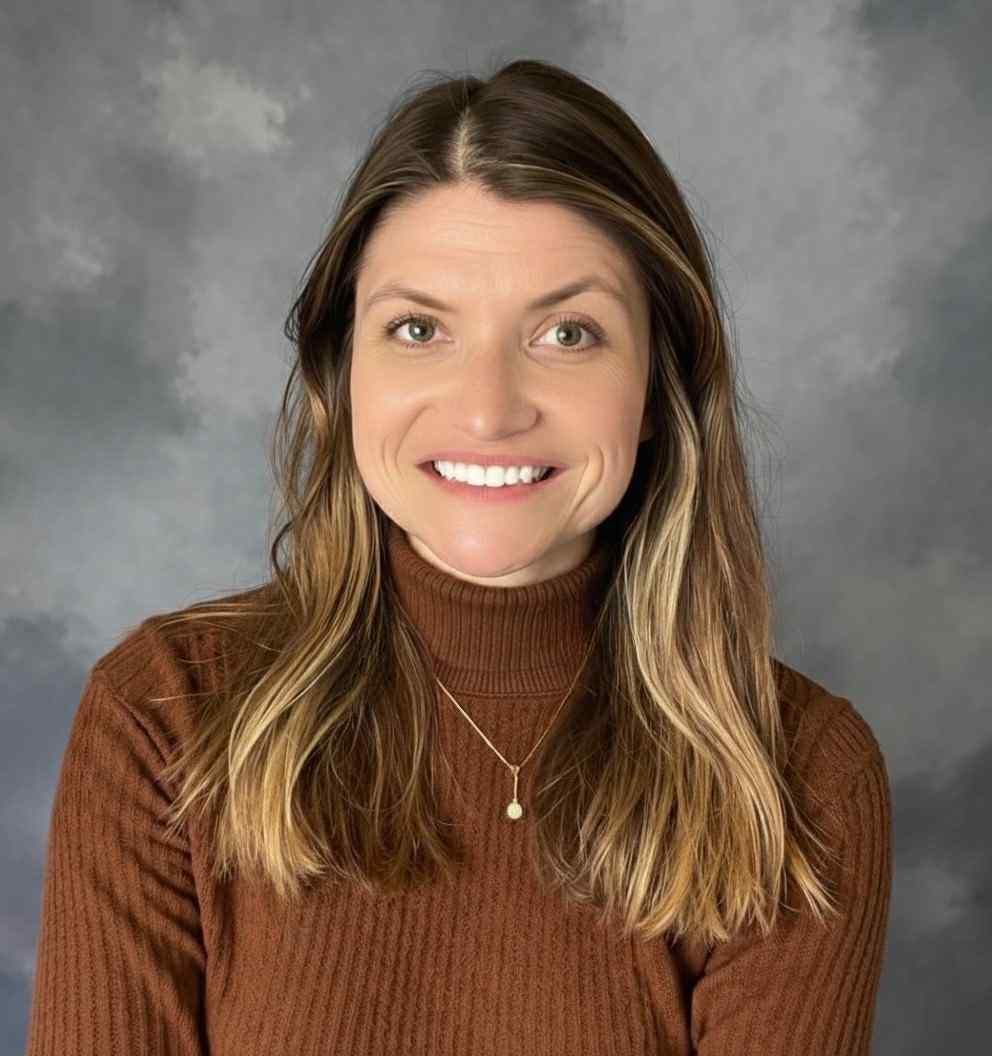
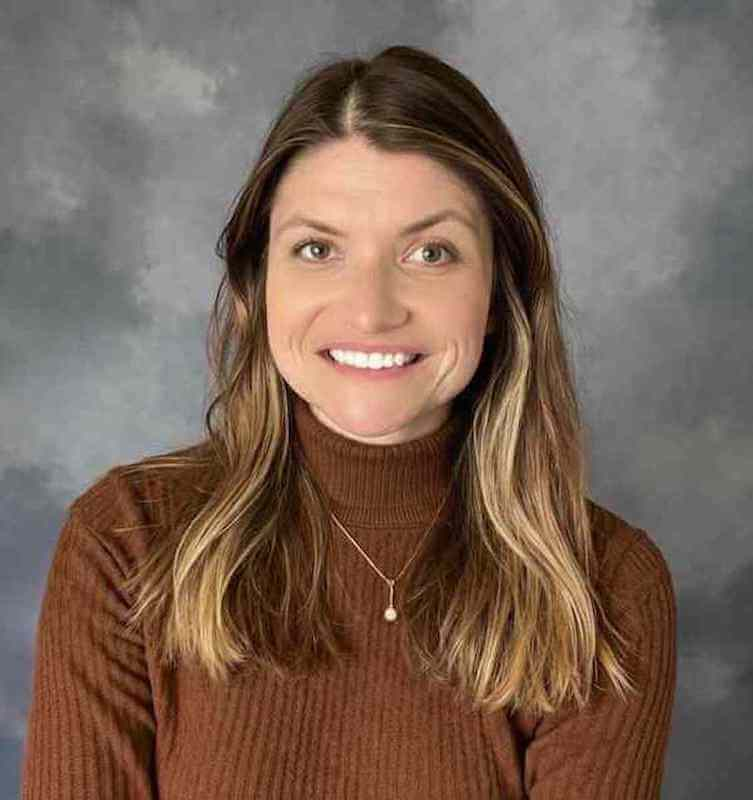
Resized profile picture

diff --git a/index.html b/index.html
@@ -91,7 +91,7 @@
 
                 <div class="home-portfolio-piece">
                     <figure>
-                    <a href="https://aistem1.github.io/guess-the-word/" target="_blank"><img src="img/guess-the-word-1.png"
+                    <a href="https://aistem1.github.io/guess-the-word/" target="_blank"><img src="img/guess-the-word-2 (1).png"
                         alt="Guess The Word"></a>
                 </figure>
                 <h4>Guess The Word</h4>
@@ -103,7 +103,7 @@
               
              <div class="home-portfolio-piece">
              <figure>
-                <a href="https://aistem1.github.io/unplugged-website/" target="_blank"><img src="img/unplugged-website-1.png"
+                <a href="https://aistem1.github.io/unplugged-website/" target="_blank"><img src="img/unplugged-website.png"
                     alt="Unplugged"><a>             
              </figure>
              <h4>Unplugged</h4>
